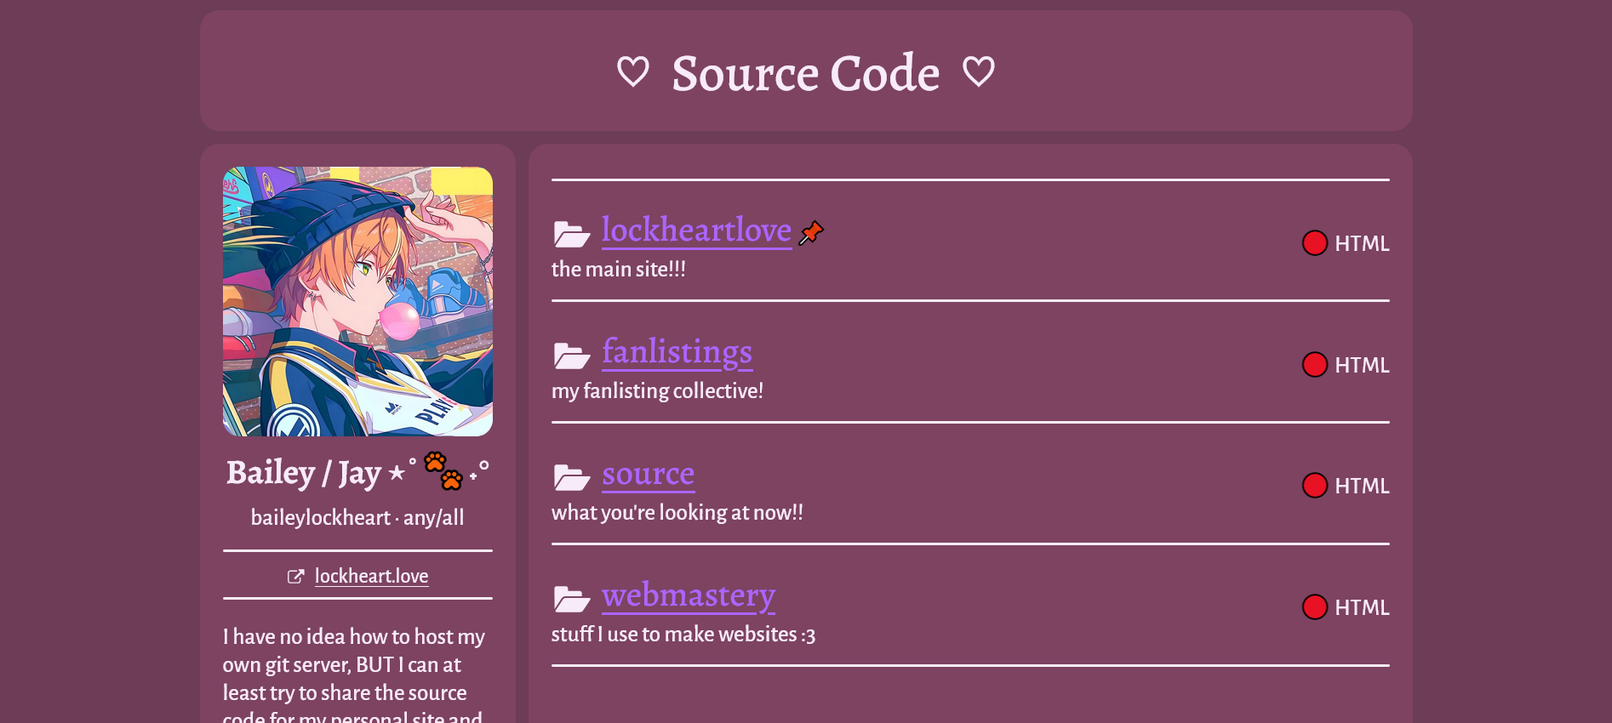
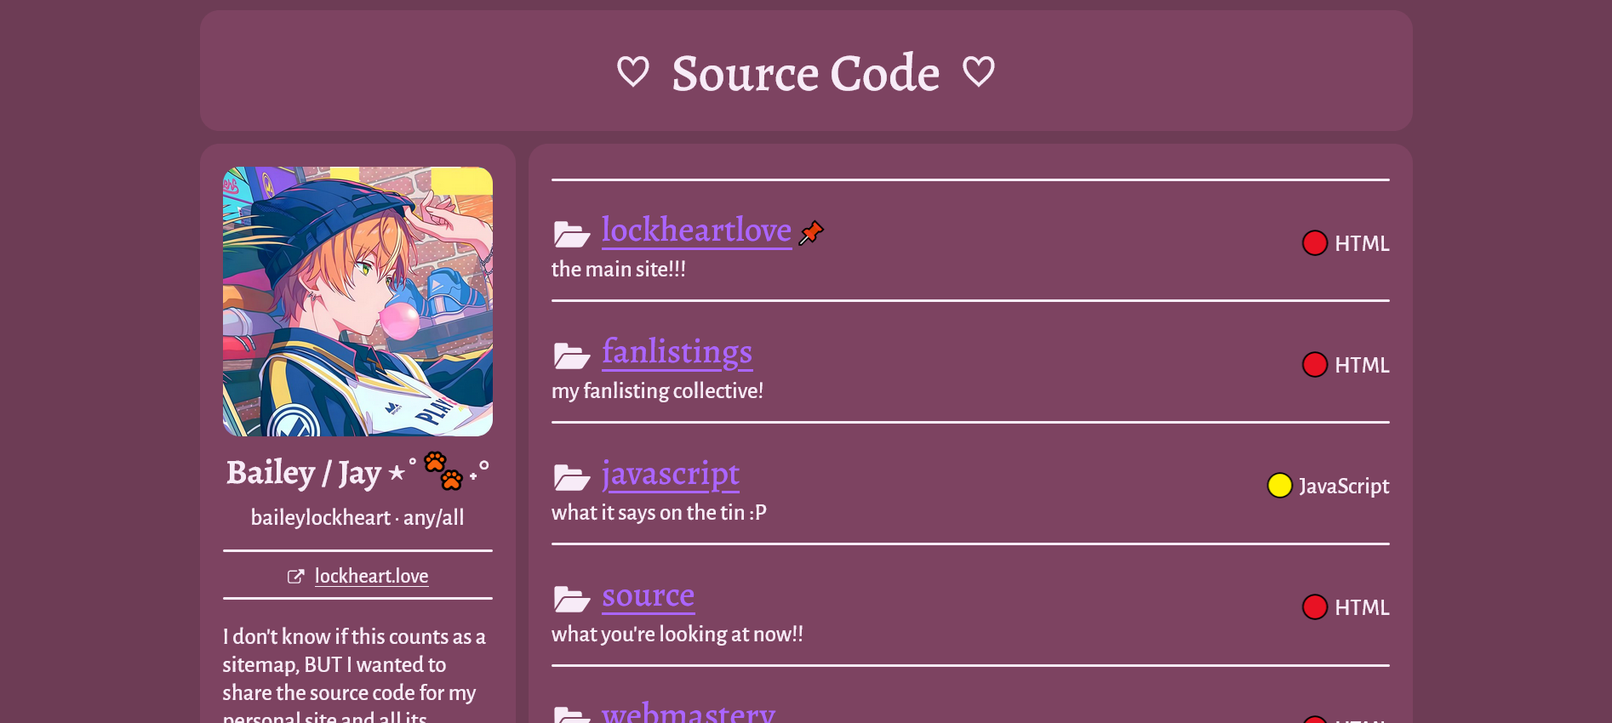
General update :P

diff --git a/public/source/lockheartlove.html b/public/source/lockheartlove.html
@@ -10,7 +10,7 @@
     
     <!--meta tags-->
     <meta name="description" content="The main part of the site!"/>
-    <meta property="og:site_name" content="Neocities"/>
+    <meta property="og:site_name" content="Lockheart Love"/>
     <meta property="og:title" content="Source Code: Lockheart Love"/>
     <meta property="og:type" content="website" />
     <meta property="og:description" content="The main part of the site!"/>
@@ -48,9 +48,6 @@ document.getElementById("myDropdownRecs").classList.toggle("show");
     function dropShrines() {
 document.getElementById("myDropdownShrines").classList.toggle("show");
 }
-    function dropJS() {
-document.getElementById("myDropdownJS").classList.toggle("show");
-}
     function dropSource() {
 document.getElementById("myDropdownSource").classList.toggle("show");
 }
@@ -65,7 +62,7 @@ document.getElementById("myDropdownWebring").classList.toggle("show");
 }
 </script>
 <body>
-    <header>&#9825;&nbsp;&nbsp;<a href="/source/index.html">Source Code</a>&nbsp;&nbsp;&#9825;</header>
+    <header>&#9825;&nbsp;&nbsp;<a href="/source/">Source Code</a>&nbsp;&nbsp;&#9825;</header>
     <div id="container">
         <div id="top">The main part of the site! This is what everything else stems from :D</div>
     </div>
@@ -140,7 +137,7 @@ document.getElementById("myDropdownWebring").classList.toggle("show");
                 </div>
             </div>
             <hr>
-            <svg class="folder3"><use xlink:href="#icon-folder"></use></svg> <a style="color:var(--lighter)" href="/source/fanlistings.html">fanlistings</a>
+            <svg class="folder3"><use xlink:href="#icon-folder"></use></svg> <a style="color:var(--lighter)" href="/source/fanlistings">fanlistings</a>
             <hr>
             <div class="dropdown">
                 <svg class="folder2"><use xlink:href="#icon-folder"></use></svg> <a onclick="dropGraphics()">graphics</a>
@@ -161,33 +158,14 @@ document.getElementById("myDropdownWebring").classList.toggle("show");
                 </div>
             </div>
             <hr>
-            <div class="dropdown">
-                <svg class="folder2"><use xlink:href="#icon-folder"></use></svg> <a onclick="dropJS()">javascript</a>
-                <div id="myDropdownJS" class="dropdown-content">
-                <svg class="doc indent"><use xlink:href="#icon-document"></use></svg><a onClick='document.getElementById("codeID").src="https://github-iframe.vercel.app/baileylockheart/lockheartlove/public/javascript/artgallery.js?theme=dracula";'>artgallery.js</a>
-                <br>
-                <svg class="doc indent"><use xlink:href="#icon-document"></use></svg><a onClick='document.getElementById("codeID").src="https://github-iframe.vercel.app/baileylockheart/lockheartlove/public/javascript/fandomring.js?theme=dracula";'>fandomring.js</a>
-                <br>
-                <svg class="doc indent"><use xlink:href="#icon-document"></use></svg><a onClick='document.getElementById("codeID").src="https://github-iframe.vercel.app/baileylockheart/lockheartlove/public/javascript/gitgudring.js?theme=dracula";'>gitgudring.js</a>
-                <br>
-                <svg class="doc indent"><use xlink:href="#icon-document"></use></svg><a onClick='document.getElementById("codeID").src="https://github-iframe.vercel.app/baileylockheart/lockheartlove/public/javascript/icons.js?theme=dracula";'>icons.js</a>
-                <br>
-                <svg class="doc indent"><use xlink:href="#icon-document"></use></svg><a onClick='document.getElementById("codeID").src="https://github-iframe.vercel.app/baileylockheart/lockheartlove/public/javascript/navbar.js?theme=dracula";'>navbar.js</a>
-                <br>
-                <svg class="doc indent"><use xlink:href="#icon-document"></use></svg><a onClick='document.getElementById("codeID").src="https://github-iframe.vercel.app/baileylockheart/lockheartlove/public/javascript/showWebring.js?theme=dracula";'>showWebring.js</a>
-                <br>
-                <svg class="doc indent"><use xlink:href="#icon-document"></use></svg><a onClick='document.getElementById("codeID").src="https://github-iframe.vercel.app/baileylockheart/lockheartlove/public/javascript/sidecar.js?theme=dracula";'>sidecar.js</a>
-                <br>
-                <svg class="doc indent"><use xlink:href="#icon-document"></use></svg><a onClick='document.getElementById("codeID").src="https://github-iframe.vercel.app/baileylockheart/lockheartlove/public/javascript/sorttable.js?theme=dracula";'>sorttable.js</a>
-                <br>
-                <svg class="doc indent"><use xlink:href="#icon-document"></use></svg><a onClick='document.getElementById("codeID").src="https://github-iframe.vercel.app/baileylockheart/lockheartlove/public/javascript/vocaloidwebring.js?theme=dracula";'>vocaloidwebring.js</a>
-                </div>
-            </div>
+            <svg class="folder3"><use xlink:href="#icon-folder"></use></svg> <a style="color:var(--lighter)" href="/source/javascript">javascript</a>
             <hr>
             <div class="dropdown">
                 <svg class="folder2"><use xlink:href="#icon-folder"></use></svg> <a onclick="dropRecs()">recs</a>
                 <div id="myDropdownRecs" class="dropdown-content">
                 <svg class="doc indent"><use xlink:href="#icon-document"></use></svg><a onClick='document.getElementById("codeID").src="https://github-iframe.vercel.app/baileylockheart/lockheartlove/public/recs/anime.html?theme=dracula";'>anime.html</a>
+                <br>
+                <svg class="doc indent"><use xlink:href="#icon-document"></use></svg><a onClick='document.getElementById("codeID").src="https://github-iframe.vercel.app/baileylockheart/lockheartlove/public/recs/games.html?theme=dracula";'>games.html</a>
                 <br>
                 <svg class="doc indent"><use xlink:href="#icon-document"></use></svg><a onClick='document.getElementById("codeID").src="https://github-iframe.vercel.app/baileylockheart/lockheartlove/public/recs/index.html?theme=dracula";'>index.html</a>
                 <br>
@@ -199,9 +177,11 @@ document.getElementById("myDropdownWebring").classList.toggle("show");
             <div class="dropdown">
                 <svg class="folder2"><use xlink:href="#icon-folder"></use></svg> <a onclick="dropShrines()">shrines</a>
                 <div id="myDropdownShrines" class="dropdown-content">
-                <svg class="doc indent"><use xlink:href="#icon-document"></use></svg><a onClick='document.getElementById("codeID").src="https://github-iframe.vercel.app/baileylockheart/lockheartlove/public/shrines/index.html?theme=dracula";'>index.html</a>
+                <svg class="doc indent"><use xlink:href="#icon-document"></use></svg><a onClick='document.getElementById("codeID").src="https://github-iframe.vercel.app/baileylockheart/lockheartlove/public/shrines/epic.html?theme=dracula";'>epic.html</a>
                 <br>
                 <svg class="doc indent"><use xlink:href="#icon-document"></use></svg><a onClick='document.getElementById("codeID").src="https://github-iframe.vercel.app/baileylockheart/lockheartlove/public/shrines/genshin.html?theme=dracula";'>genshin.html</a>
+                <br>
+                <svg class="doc indent"><use xlink:href="#icon-document"></use></svg><a onClick='document.getElementById("codeID").src="https://github-iframe.vercel.app/baileylockheart/lockheartlove/public/shrines/index.html?theme=dracula";'>index.html</a>
                 <br>
                 <svg class="doc indent"><use xlink:href="#icon-document"></use></svg><a onClick='document.getElementById("codeID").src="https://github-iframe.vercel.app/baileylockheart/lockheartlove/public/shrines/maddsbuckley.html?theme=dracula";'>maddsbuckley.html</a>
                 <br>
@@ -210,9 +190,9 @@ document.getElementById("myDropdownWebring").classList.toggle("show");
                 </div>
             </div>
             <hr>
-            <svg class="folder3"><use xlink:href="#icon-folder"></use></svg> <a style="color:var(--lighter)" href="/source/source.html">source</a>
+            <svg class="folder3"><use xlink:href="#icon-folder"></use></svg> <a style="color:var(--lighter)" href="/source/source">source</a>
             <hr>
-            <svg class="folder3"><use xlink:href="#icon-folder"></use></svg> <a style="color:var(--lighter)" href="/source/webmastery.html">webmastery</a>
+            <svg class="folder3"><use xlink:href="#icon-folder"></use></svg> <a style="color:var(--lighter)" href="/source/webmastery">webmastery</a>
             <hr>
             <div class="dropdown">
                 <svg class="folder2"><use xlink:href="#icon-folder"></use></svg> <a onclick="dropStyles()">styles</a>
@@ -245,23 +225,17 @@ document.getElementById("myDropdownWebring").classList.toggle("show");
             <hr>
             <svg class="doc"><use xlink:href="#icon-document"></use></svg><a onClick='document.getElementById("codeID").src="https://github-iframe.vercel.app/baileylockheart/lockheartlove/public/foryou.html?theme=dracula";'>foryou.html</a>
             <hr>
-            <svg class="doc"><use xlink:href="#icon-document"></use></svg><a onClick='document.getElementById("codeID").src="https://github-iframe.vercel.app/baileylockheart/lockheartlove/public/graphics.html?theme=dracula";'>graphics.html</a>
-            <hr>
             <svg class="doc"><use xlink:href="#icon-document"></use></svg><a onClick='document.getElementById("codeID").src="https://github-iframe.vercel.app/baileylockheart/lockheartlove/public/index.html?theme=dracula";'>index.html</a>
             <hr>
             <svg class="doc"><use xlink:href="#icon-document"></use></svg><a onClick='document.getElementById("codeID").src="https://github-iframe.vercel.app/baileylockheart/lockheartlove/public/links.html?theme=dracula";'>links.html</a>
             <hr>
             <svg class="doc"><use xlink:href="#icon-document"></use></svg><a onClick='document.getElementById("codeID").src="https://github-iframe.vercel.app/baileylockheart/lockheartlove/public/not_found.html?theme=dracula";'>not_found.html</a>
             <hr>
-            <svg class="doc"><use xlink:href="#icon-document"></use></svg><a onClick='document.getElementById("codeID").src="https://github-iframe.vercel.app/baileylockheart/lockheartlove/public/recs.html?theme=dracula";'>recs.html</a>
-            <hr>
             <svg class="doc"><use xlink:href="#icon-document"></use></svg><a onClick='document.getElementById("codeID").src="https://github-iframe.vercel.app/baileylockheart/lockheartlove/public/ring.txt?theme=dracula";'>ring.txt</a>
             <hr>
             <svg class="doc"><use xlink:href="#icon-document"></use></svg><a onClick='document.getElementById("codeID").src="https://github-iframe.vercel.app/baileylockheart/lockheartlove/public/style.css?theme=dracula";'>style.css</a>
             <hr>
             <svg class="doc"><use xlink:href="#icon-document"></use></svg><a onClick='document.getElementById("codeID").src="https://github-iframe.vercel.app/baileylockheart/lockheartlove/public/webgarden.html?theme=dracula";'>webgarden.html</a>
-            <hr>
-            <svg class="doc"><use xlink:href="#icon-document"></use></svg><a onClick='document.getElementById("codeID").src="https://github-iframe.vercel.app/baileylockheart/lockheartlove/public/webring.html?theme=dracula";'>webring.html</a>
         </div>
         <div id="repo">
             <iframe id="codeID" frameborder="0" scrolling="auto"></iframe>

diff --git a/public/source/javascript.html b/public/source/javascript.html
@@ -1,0 +1,74 @@
+<!DOCTYPE html>
+<html lang="en">
+<head>
+    <title>Source Code: JavaScript</title>
+
+    <meta charset="utf-8"/>
+    <meta name="viewport" content="width=device-width,initial-scale=1"/>
+    <meta name="color-scheme" content="light only"/>
+    <meta name="theme-color" content="#fbc9ff">
+    
+    <!--meta tags-->
+    <meta name="description" content="Source Code????"/>
+    <meta property="og:site_name" content="Lockheart Love"/>
+    <meta property="og:title" content="Source Code: JavaScript"/>
+    <meta property="og:type" content="website" />
+    <meta property="og:description" content="Source Code????"/>
+    <meta property="og:image" content="https://i.imgur.com/SewwaVX.png"/>
+    <meta property="og:image:height" content="800"/>
+    <meta property="og:url" content="https://lockheart.love/source/javascript"/>
+    
+    <!--and the bird app bc they just have to be special-->
+    <meta name="twitter:title" content="Source Code: JavaScript" />
+    <meta name="twitter:image" content="https://i.imgur.com/SewwaVX.png">
+    <meta name="twitter:description" content="Source Code????">
+    <meta property="twitter:card" content="summary_large_image"/>
+    
+    <link rel="canonical" href="https://lockheart.love/source/javascript"/>
+    <link rel="icon" type="image/x-icon" href="/source/pink-git.png">
+    <link rel="stylesheet" type="text/css" href="/source/style.css">
+    <script src="https://code.jquery.com/jquery-1.10.2.js"></script>
+    <script id="allIcons" src="/javascript/icons.js"></script>    
+
+    <div id="preloader"></div>
+</head>
+<body>
+    <header>&#9825;&nbsp;&nbsp;<a href="/source/">Source Code</a>&nbsp;&nbsp;&#9825;</header>
+    <div id="container">
+        <div id="top">The javascript for this site, mainly custom webring codes!</div>
+    </div>
+    <div id="container">
+        <div id="code">
+            <svg class="doc"><use xlink:href="#icon-document"></use></svg><a onClick='document.getElementById("codeID").src="https://github-iframe.vercel.app/baileylockheart/lockheartlove/public/javascript/artgallery.js?theme=dracula";'>artgallery.js</a>
+            <hr>
+            <svg class="doc"><use xlink:href="#icon-document"></use></svg><a onClick='document.getElementById("codeID").src="https://github-iframe.vercel.app/baileylockheart/lockheartlove/public/javascript/fandomring.js?theme=dracula";'>fandomring.js</a>
+            <hr>
+            <svg class="doc"><use xlink:href="#icon-document"></use></svg><a onClick='document.getElementById("codeID").src="https://github-iframe.vercel.app/baileylockheart/lockheartlove/public/javascript/gitgudring.js?theme=dracula";'>gitgudring.js</a>
+            <hr>
+            <svg class="doc"><use xlink:href="#icon-document"></use></svg><a onClick='document.getElementById("codeID").src="https://github-iframe.vercel.app/baileylockheart/lockheartlove/public/javascript/icons.js?theme=dracula";'>icons.js</a>
+            <hr>
+            <svg class="doc"><use xlink:href="#icon-document"></use></svg><a onClick='document.getElementById("codeID").src="https://github-iframe.vercel.app/baileylockheart/lockheartlove/public/javascript/navbar.js?theme=dracula";'>navbar.js</a>
+            <hr>
+            <svg class="doc"><use xlink:href="#icon-document"></use></svg><a onClick='document.getElementById("codeID").src="https://github-iframe.vercel.app/baileylockheart/lockheartlove/public/javascript/showWebring.js?theme=dracula";'>showWebring.js</a>
+            <hr>
+            <svg class="doc"><use xlink:href="#icon-document"></use></svg><a onClick='document.getElementById("codeID").src="https://github-iframe.vercel.app/baileylockheart/lockheartlove/public/javascript/sidecar.js?theme=dracula";'>sidecar.js</a>
+            <hr>
+            <svg class="doc"><use xlink:href="#icon-document"></use></svg><a onClick='document.getElementById("codeID").src="https://github-iframe.vercel.app/baileylockheart/lockheartlove/public/javascript/sorttable.js?theme=dracula";'>sorttable.js</a>
+            <hr>
+            <svg class="doc"><use xlink:href="#icon-document"></use></svg><a onClick='document.getElementById("codeID").src="https://github-iframe.vercel.app/baileylockheart/lockheartlove/public/javascript/vocaloidwebring.js?theme=dracula";'>vocaloidwebring.js</a>
+        </div>
+        <div id="repo">
+            <iframe id="codeID" frameborder="0" scrolling="auto"></iframe>
+        </div>
+    </div>
+    <div id="container">
+        <div id="bottom">♡&nbsp;&nbsp;<a href="https://github.com/baileylockheart" target="_blank">Made by Bailey Lockheart</a>&nbsp;&nbsp;♡</div>
+    </div>
+    <script>
+        var loader = document.getElementById("preloader");
+        window.addEventListener("load", function () {
+          loader.style.display = "none";
+        });
+    </script>
+</body>
+</html>

diff --git a/content/links.html b/content/links.html
@@ -64,6 +64,7 @@ js: <script id="allIcons" src="/javascript/icons.js"></script>
             <a href="https://neospring.org/@lockheartlove" target="_blank"><button class="even smol" style="background-color: #c73362;">Neospring&nbsp;<svg><use xlink:href="#icon-neospring"></use></svg></button></a>
             <a href="https://throne.com/lockheartlove" target="_blank"><button class="even" style="background-color: #05043e;">Throne&nbsp;&nbsp;&nbsp;<svg><use xlink:href="#icon-throne"></use></svg></button></a>
             <a href="https://artfight.net/~st0rmscribbles" target="_blank"><button class="even" style="background-color: #718e9a;">Art Fight&nbsp;&nbsp;<svg><use xlink:href="#icon-artfight"></use></svg></button></a>
+            <a href="https://trello.com/w/workspace51321676" target="_blank"><button class="even" style="background-color: #0067A3;">Trello&nbsp;&nbsp;<svg><use xlink:href="#icon-trello"></use></svg></button></a>
             </div><br><b>~ indie web profiles ~</b><br>
             <a id="color" href="https://starsubculture.com/members/lockheartlove-143/" target="_blank">Star Subculture</a> | 
             <a id="color" href="https://forum.melonland.net/index.php?action=profile;area=summary;u=2118" target="_blank">Melonland</a> | 
@@ -409,10 +410,12 @@ js: <script id="allIcons" src="/javascript/icons.js"></script>
             <a href="https://zenoslots.net/" target="_blank"><img src="images/buttons/links/ZENOSLOTS_Mini.png" width="88" height="31"></a>
             <a href="https://skeliana.neocities.org/" target="_blank"><img src="images/buttons/links/skel.gif" width="88" height="31"></a>
             <a href="https://galissia.neocities.org/" target="_blank"><img src="images/buttons/links/galissia.gif" width="88" height="31"></a>
+            <a href="https://maia.crimew.gay/" target="_blank"><img src="images/buttons/links/maia.crimew.gay.png" width="88" height="31"></a>
             <a href="https://sparkleworm.art/" target="_blank"><img src="images/buttons/links/cloudbutton.gif" width="88" height="31"></a>
             <a href="https://dogblog.neocities.org/" target="_blank"><img src="images/buttons/links/dogblog.gif" width="88" height="31"></a>
             <a href="https://vivarism.net/" target="_blank"><img src="images/buttons/links/vivarism_03.gif" width="88" height="31"></a>
             <a href="https://pc98.club/" target="_blank"><img src="images/buttons/links/pc98.gif" width="88" height="31"></a>
+            <a href="https://miaow.ing/" target="_blank"><img src="images/buttons/links/88x31_miaowing.png" width="88" height="31"></a>
             </div><br>
             <b>~ sites with no button ~</b><br>
             <a id="color" href="https://katiepla.net/" target="_blank">KatiePla.net</a> |

diff --git a/public/links.html b/public/links.html
@@ -96,6 +96,7 @@
             <a href="https://neospring.org/@lockheartlove" target="_blank"><button class="even smol" style="background-color: #c73362;">Neospring&nbsp;<svg><use xlink:href="#icon-neospring"></use></svg></button></a>
             <a href="https://throne.com/lockheartlove" target="_blank"><button class="even" style="background-color: #05043e;">Throne&nbsp;&nbsp;&nbsp;<svg><use xlink:href="#icon-throne"></use></svg></button></a>
             <a href="https://artfight.net/~st0rmscribbles" target="_blank"><button class="even" style="background-color: #718e9a;">Art Fight&nbsp;&nbsp;<svg><use xlink:href="#icon-artfight"></use></svg></button></a>
+            <a href="https://trello.com/w/workspace51321676" target="_blank"><button class="even" style="background-color: #0067A3;">Trello&nbsp;&nbsp;<svg><use xlink:href="#icon-trello"></use></svg></button></a>
             </div><br><b>~ indie web profiles ~</b><br>
             <a id="color" href="https://starsubculture.com/members/lockheartlove-143/" target="_blank">Star Subculture</a> | 
             <a id="color" href="https://forum.melonland.net/index.php?action=profile;area=summary;u=2118" target="_blank">Melonland</a> | 
@@ -441,10 +442,12 @@
             <a href="https://zenoslots.net/" target="_blank"><img src="images/buttons/links/ZENOSLOTS_Mini.png" width="88" height="31"></a>
             <a href="https://skeliana.neocities.org/" target="_blank"><img src="images/buttons/links/skel.gif" width="88" height="31"></a>
             <a href="https://galissia.neocities.org/" target="_blank"><img src="images/buttons/links/galissia.gif" width="88" height="31"></a>
+            <a href="https://maia.crimew.gay/" target="_blank"><img src="images/buttons/links/maia.crimew.gay.png" width="88" height="31"></a>
             <a href="https://sparkleworm.art/" target="_blank"><img src="images/buttons/links/cloudbutton.gif" width="88" height="31"></a>
             <a href="https://dogblog.neocities.org/" target="_blank"><img src="images/buttons/links/dogblog.gif" width="88" height="31"></a>
             <a href="https://vivarism.net/" target="_blank"><img src="images/buttons/links/vivarism_03.gif" width="88" height="31"></a>
             <a href="https://pc98.club/" target="_blank"><img src="images/buttons/links/pc98.gif" width="88" height="31"></a>
+            <a href="https://miaow.ing/" target="_blank"><img src="images/buttons/links/88x31_miaowing.png" width="88" height="31"></a>
             </div><br>
             <b>~ sites with no button ~</b><br>
             <a id="color" href="https://katiepla.net/" target="_blank">KatiePla.net</a> |

diff --git a/content/index.html b/content/index.html
@@ -116,7 +116,6 @@ css: <link rel="stylesheet" type="text/css" href="/styles/index.css">
         <a href="http://haikyuu.nymphae.net" target="_blank"><img src="/fanlistings/img/codes/haikyuu.png"></a>
         <a href="https://www.purifiedfiction.com/leverage/" target="_blank"><img src="/fanlistings/img/codes/leverage.gif"></a>
         <a href="https://love.cordy.nu/mint/" target="_blank"><img src="/fanlistings/img/codes/mint50x50-02.png"></a>
-        <a href="http://www.violet-wings.net/alitamovie/" target="_blank"><img src="/fanlistings/img/codes/5050alitamoviefan.png"></a>
         <a href="http://fan.greenhype.net/squishmallows/" target="_blank"><img src="/fanlistings/img/codes/squishmallows50j.gif"></a>
         <a href="https://precious-memory.net/ouat/henry/" target="_blank"><img src="/fanlistings/img/codes/henry50x50-4.gif"></a>
         <a href="http://amalgamate.afflatus-misery.net/apollo/" target="_blank"><img src="/fanlistings/img/codes/apollo2_5050.png"></a>
@@ -129,7 +128,6 @@ css: <link rel="stylesheet" type="text/css" href="/styles/index.css">
         <a href="https://precious-memory.net/blankets/" target="_blank"><img src="/fanlistings/img/codes/blankets.gif"></a>
         <a href="https://kelsey.altervista.org/cookies" target="_blank"><img src="/fanlistings/img/codes/ccc.png"></a>
         <a href="https://bloodkisses.com/amethyst/" target="_blank"><img src="/fanlistings/img/codes/amethyst.png"></a>
-        <a href="https://silent.am/sakura/" target="_blank"><img src="/fanlistings/img/codes/sakura50x50-022048.png"></a>
         <a href="https://roadtonowhere.altervista.org/tfl/" target="_blank"><img src="/fanlistings/img/codes/tflboard.png"></a>
         <a href="http://amalgamate.afflatus-misery.net/scp/" target="_blank"><img src="/fanlistings/img/codes/scpwb_50x50.png"></a>
         <a href="https://www.marheavenj.net/tsundere/" target="_blank"><img src="/fanlistings/img/codes/tsundere.jpg"></a>

diff --git a/public/source/index.html b/public/source/index.html
@@ -10,7 +10,7 @@
     
     <!--meta tags-->
     <meta name="description" content="Source Code????"/>
-    <meta property="og:site_name" content="Neocities"/>
+    <meta property="og:site_name" content="Lockheart Love"/>
     <meta property="og:title" content="Source Code"/>
     <meta property="og:type" content="website" />
     <meta property="og:description" content="Source Code????"/>
@@ -52,7 +52,7 @@
                 <svg class="linkicon"><use xlink:href="#icon-link"></use></svg>&nbsp;&nbsp;&nbsp;<a href="/">lockheart.love</a>
             </div>
             <hr>
-            <p>I have no idea how to host my own git server, BUT I can at least try to share the source code for my personal site and all its subpages!!!</p>
+            <p>I don't know if this counts as a sitemap, BUT I wanted to share the source code for my personal site and all its subpages!!!</p>
             <p>You can find the Github repository <a href="https://github.com/baileylockheart/lockheartlove">here</a> for a better experience :'D</p>
             <svg><use xlink:href="#icon-calendar"></use></svg>&nbsp;&nbsp;&nbsp;Created on Dec 26, 2024
         </div> 
@@ -63,6 +63,9 @@
             <hr>
             <p><svg class="folder"><use xlink:href="#icon-folder"></use></svg><a id="color" href="/source/fanlistings">fanlistings</a><br>my fanlisting collective!</p>
             <p class="language">&#128308; HTML</p>
+            <hr>
+            <p><svg class="folder"><use xlink:href="#icon-folder"></use></svg><a id="color" href="/source/javascript">javascript</a><br>what it says on the tin :P</p>
+            <p class="language">&#128993; JavaScript</p>
             <hr>
             <p><svg class="folder"><use xlink:href="#icon-folder"></use></svg><a id="color" href="/source/source">source</a><br>what you're looking at now!!</p>
             <p class="language">&#128308; HTML</p>

diff --git a/public/index.html b/public/index.html
@@ -149,7 +149,6 @@
         <a href="http://haikyuu.nymphae.net" target="_blank"><img src="/fanlistings/img/codes/haikyuu.png"></a>
         <a href="https://www.purifiedfiction.com/leverage/" target="_blank"><img src="/fanlistings/img/codes/leverage.gif"></a>
         <a href="https://love.cordy.nu/mint/" target="_blank"><img src="/fanlistings/img/codes/mint50x50-02.png"></a>
-        <a href="http://www.violet-wings.net/alitamovie/" target="_blank"><img src="/fanlistings/img/codes/5050alitamoviefan.png"></a>
         <a href="http://fan.greenhype.net/squishmallows/" target="_blank"><img src="/fanlistings/img/codes/squishmallows50j.gif"></a>
         <a href="https://precious-memory.net/ouat/henry/" target="_blank"><img src="/fanlistings/img/codes/henry50x50-4.gif"></a>
         <a href="http://amalgamate.afflatus-misery.net/apollo/" target="_blank"><img src="/fanlistings/img/codes/apollo2_5050.png"></a>
@@ -162,7 +161,6 @@
         <a href="https://precious-memory.net/blankets/" target="_blank"><img src="/fanlistings/img/codes/blankets.gif"></a>
         <a href="https://kelsey.altervista.org/cookies" target="_blank"><img src="/fanlistings/img/codes/ccc.png"></a>
         <a href="https://bloodkisses.com/amethyst/" target="_blank"><img src="/fanlistings/img/codes/amethyst.png"></a>
-        <a href="https://silent.am/sakura/" target="_blank"><img src="/fanlistings/img/codes/sakura50x50-022048.png"></a>
         <a href="https://roadtonowhere.altervista.org/tfl/" target="_blank"><img src="/fanlistings/img/codes/tflboard.png"></a>
         <a href="http://amalgamate.afflatus-misery.net/scp/" target="_blank"><img src="/fanlistings/img/codes/scpwb_50x50.png"></a>
         <a href="https://www.marheavenj.net/tsundere/" target="_blank"><img src="/fanlistings/img/codes/tsundere.jpg"></a>

diff --git a/public/source/fanlistings.html b/public/source/fanlistings.html
@@ -10,7 +10,7 @@
     
     <!--meta tags-->
     <meta name="description" content="This is my fanlisting collective!"/>
-    <meta property="og:site_name" content="Neocities"/>
+    <meta property="og:site_name" content="Lockheart Love"/>
     <meta property="og:title" content="Source Code: Fanlistings"/>
     <meta property="og:type" content="website" />
     <meta property="og:description" content="This is my fanlisting collective!"/>
@@ -47,7 +47,7 @@ document.getElementById("myDropdownSKZ").classList.toggle("show");
 }
 </script>
 <body>
-    <header>&#9825;&nbsp;&nbsp;<a href="/source/index.html">Source Code</a>&nbsp;&nbsp;&#9825;</header>
+    <header>&#9825;&nbsp;&nbsp;<a href="/source/">Source Code</a>&nbsp;&nbsp;&#9825;</header>
     <div id="container">
         <div id="top">This is my fanlisting collective!</div>
     </div>

diff --git a/content/collections/index.html b/content/collections/index.html
@@ -59,10 +59,9 @@ name: collections/
             &#9825;&nbsp;<a href="/collections/greenhouse">Greenhouse</a>
             &#9825;&nbsp;<a href="/collections/lists">Lists</a>
             &#9825;&nbsp;<a href="/collections/quizzes">Quiz Results</a>
-            &nbsp;&#9825;&nbsp;<a href="/recs/">Recs</a>
-            &nbsp;&#9825;&nbsp;<a href="/shrines/">Shrines</a>&nbsp;&#9825;<br>
+            &nbsp;&#9825;&nbsp;<a href="/recs/">Recs</a>&nbsp;&#9825;<br>
+            &nbsp;&#9825;&nbsp;<a href="/shrines/">Shrines</a>
             &nbsp;&#9825;&nbsp;<a href="/collections/themes">Themes</a>
-            &nbsp;&#9825;&nbsp;<a href="/collections/videomanager">Video Manager</a>
             &nbsp;&#9825;&nbsp;<a href="/collections/virtualpets">Virtual Pets</a>&nbsp;&#9825;
         </span>
         <br><br>

diff --git a/public/source/webmastery.html b/public/source/webmastery.html
@@ -10,7 +10,7 @@
     
     <!--meta tags-->
     <meta name="description" content="Source Code????"/>
-    <meta property="og:site_name" content="Neocities"/>
+    <meta property="og:site_name" content="Lockheart Love"/>
     <meta property="og:title" content="Source Code: Webmastery"/>
     <meta property="og:type" content="website" />
     <meta property="og:description" content="Source Code????"/>
@@ -33,7 +33,7 @@
     <div id="preloader"></div>
 </head>
 <body>
-    <header>&#9825;&nbsp;&nbsp;<a href="/source/index.html">Source Code</a>&nbsp;&nbsp;&#9825;</header>
+    <header>&#9825;&nbsp;&nbsp;<a href="/source/">Source Code</a>&nbsp;&nbsp;&#9825;</header>
     <div id="container">
         <div id="top">This is where I keep a bunch of links and code snippets I use to make websites!</div>
     </div>

diff --git a/public/collections/index.html b/public/collections/index.html
@@ -92,10 +92,9 @@
             &#9825;&nbsp;<a href="/collections/greenhouse">Greenhouse</a>
             &#9825;&nbsp;<a href="/collections/lists">Lists</a>
             &#9825;&nbsp;<a href="/collections/quizzes">Quiz Results</a>
-            &nbsp;&#9825;&nbsp;<a href="/recs/">Recs</a>
-            &nbsp;&#9825;&nbsp;<a href="/shrines/">Shrines</a>&nbsp;&#9825;<br>
+            &nbsp;&#9825;&nbsp;<a href="/recs/">Recs</a>&nbsp;&#9825;<br>
+            &nbsp;&#9825;&nbsp;<a href="/shrines/">Shrines</a>
             &nbsp;&#9825;&nbsp;<a href="/collections/themes">Themes</a>
-            &nbsp;&#9825;&nbsp;<a href="/collections/videomanager">Video Manager</a>
             &nbsp;&#9825;&nbsp;<a href="/collections/virtualpets">Virtual Pets</a>&nbsp;&#9825;
         </span>
         <br><br>

diff --git a/content/fanlistings/links.html b/content/fanlistings/links.html
@@ -89,7 +89,7 @@ name: links
     <a href="https://timestranger.org/" target="_blank"><img src="img/links/timestranger.png" width="75" height="50"></a> 
     <a href="https://bloodkisses.com/" target="_blank"><img src="img/links/db75x50-rain2.png" width="75" height="50"></a> 
     <a href="https://silent.am/" target="_blank"><img src="img/links/silentam.jpg" width="75" height="50"></a> 
-    <a href="https://www.ladyrose.buruma.net/" target="_blank"><img src="img/links/movielover.jpg" width="75" height="50"></a> 
+    <a href="https://ladyrose.buruma.net/" target="_blank"><img src="img/links/movielover.jpg" width="75" height="50"></a> 
 </div>
 <p>♡ <a href="https://puppyluv-listings.neocities.org/" target="_blank">PuppyLuv Listings</a> ♡</p><hr>
 <h3>Listed At:</h3>
